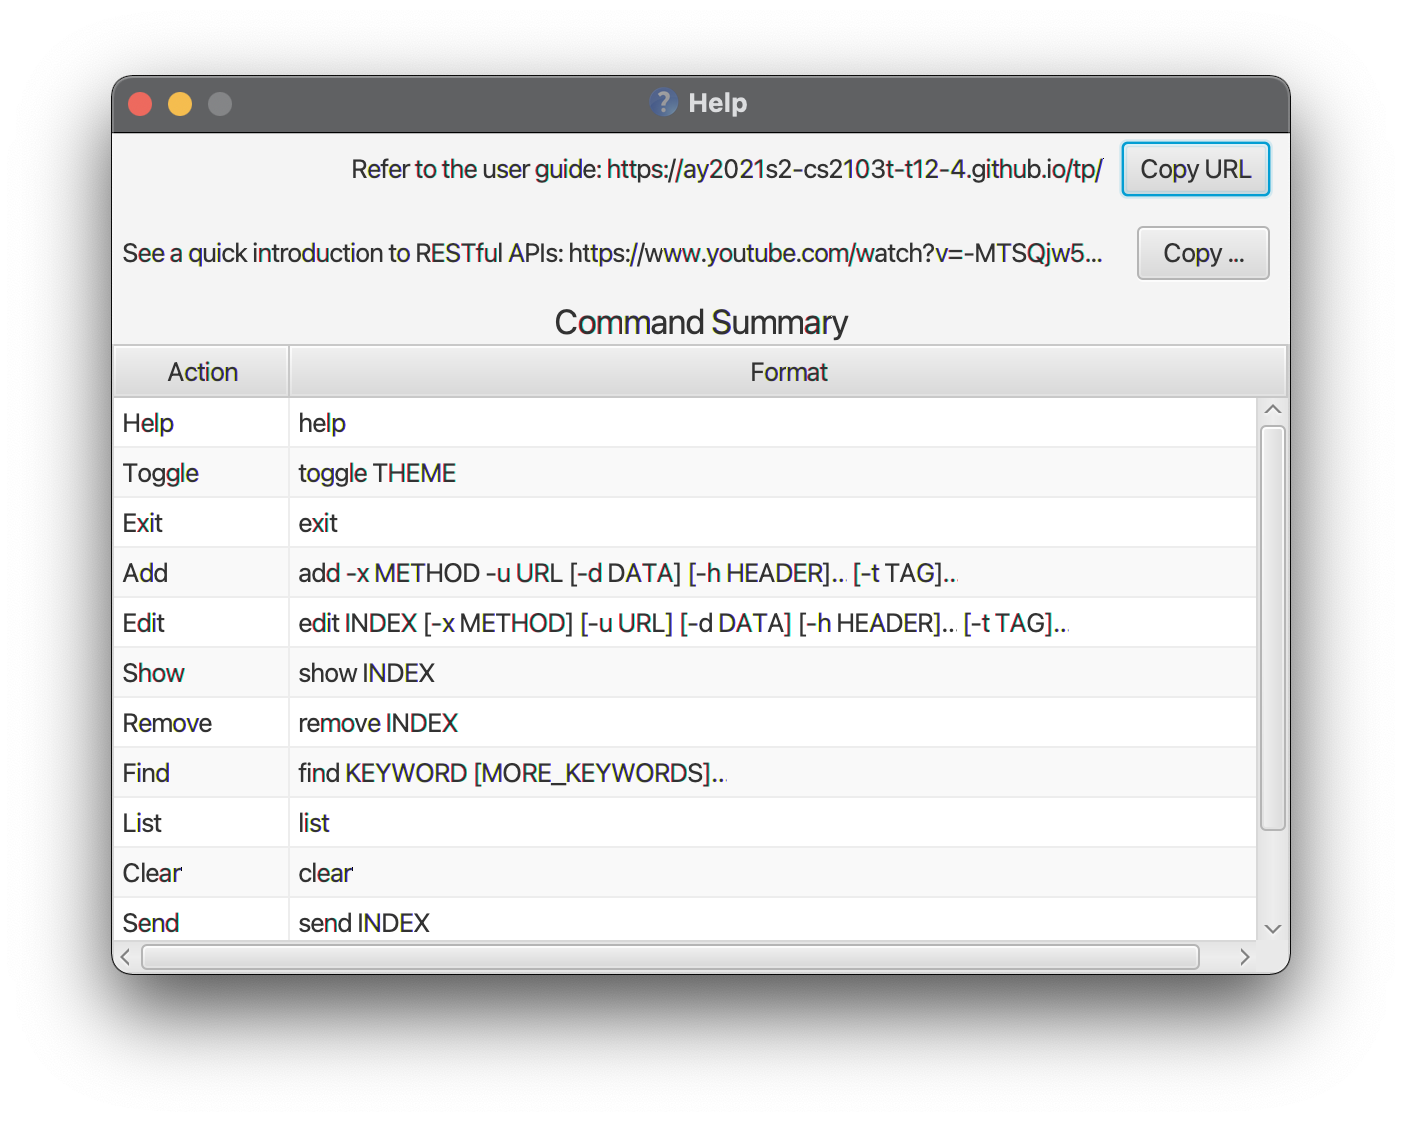
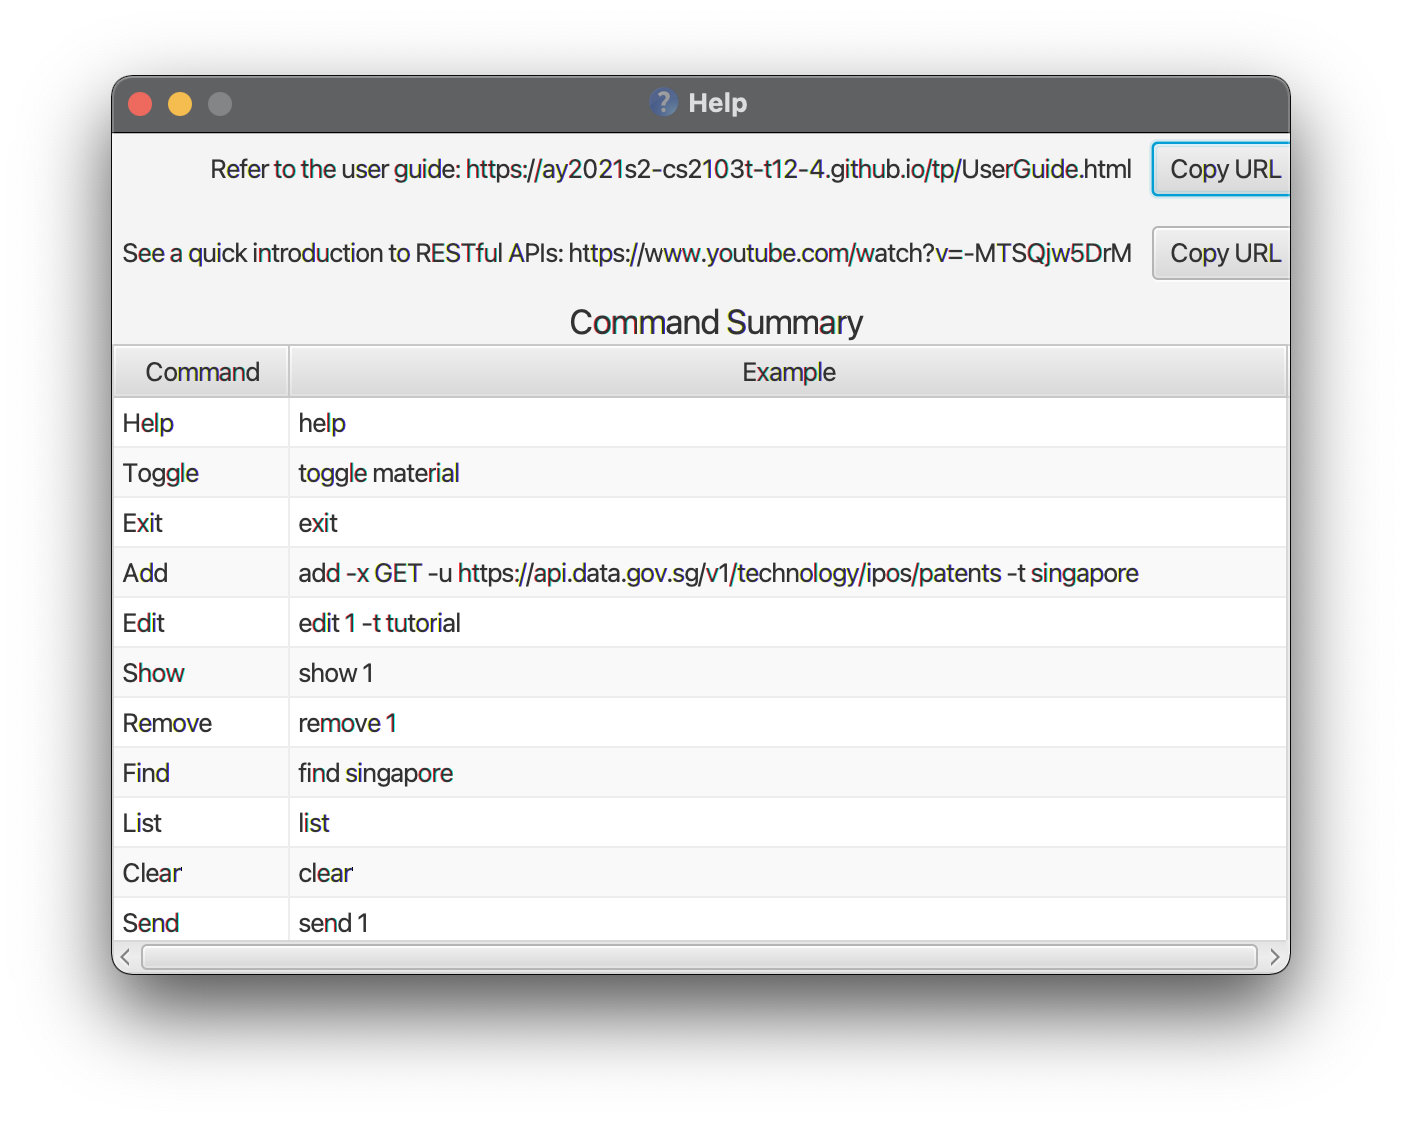
Docs: update commands section overview and help screenshot

diff --git a/docs/UserGuide.md b/docs/UserGuide.md
@@ -114,48 +114,46 @@ In the example above, <span class="main-command">add</span> is the command word 
 | DATA         |   -d   | The data to use for an endpoint **(must be in [JSON](#85-json-format) format)**          |
 | TAG          |   -t   | The tag to label an endpoint                 |
 
+Note that the fields **METHOD**, **URL**, **HEADER**, **DATA** and **TAG** are used to uniquely identify an endpoint.
+
+<div style="page-break-after: always;"></div>
+
 <a name="general-rules"></a>
 Here are some general rules to follow when entering prefixes and parameters:
 
-* A whitespace must be included before every prefix.<br>
-  e.g. `-x METHOD-u URL` is not acceptable, and `-x METHOD -u URL` is in the correct format.<br>
+* A **whitespace** must be included before **every prefix**.<br>
+  e.g. `-x METHOD -u URL` is acceptable but `-x METHOD-u URL` is not.<br>
   
-* Parameters can be in any order.<br>
-  e.g. If the command specifies `-x METHOD -u URL`, `-u URL -x METHOD` is also acceptable.<br>
+* Parameters may be entered in **any order**.<br>
+  e.g. Both `-x METHOD -u URL` and `-u URL -x METHOD` are acceptable.<br>
   
-* If a parameter is expected only once in the command but you specified it multiple times, only the last occurrence of the parameter will be taken.<br>
+* If a parameter is expected only once in the command but you specified it multiple times, only the **last occurrence** of the parameter will be taken.<br>
   e.g. If you specify `-u https://github.com/ -u https://google.com/`, only `-u https://google.com/` will be taken.<br>
 
-* Extraneous parameters for commands that do not take in parameters (such as `help`, `list`, `exit` and `clear`) will be ignored.<br>
+* **Extraneous parameters** for commands that do not take in parameters (such as **help**, **list**, **exit** and **clear**) will be ignored.<br>
   e.g. If the command specifies `help 123`, it will be interpreted as `help`.<br>
   
-* For Add, Edit and Run commands, to add multiple parameters of the same prefix, add the prefix multiple times before each parameter.<br>
-  e.g. To add two TAGs, enter `-t tagOne -t tagTwo`.<br>
-  e.g. To add three HEADERs, enter `-h "header: one" -h "header: two" -h "header: three"`.<br>
+* For **add**, **edit** and **run** commands, to add multiple parameters of the same prefix, add the prefix multiple times before each parameter.<br>
+  e.g. To add two tags, enter `-t tagOne -t tagTwo`.<br>
+  e.g. To add three headers, enter `-h "header: one" -h "header: two" -h "header: three"`.<br>
   
-* Multiple headers/tags must be unique and duplicates will be ignored.
-  e.g. `edit 1 -t tag -t tag` will only create one `tag`.
+* Multiple **headers/tags must be unique** and duplicates will be ignored.<br>
+e.g. `edit 1 -t tagA -t tagA` will only create one `tagA`.
 
+* For the **URL** parameter, as our application is focused on API testing, we have no plans to direct all our efforts in
+  verifying every technically valid or invalid [**URL**](https://en.wikipedia.org/wiki/URL) against the official [URL standard](https://url.spec.whatwg.org/#url-parsing). Hence, **minimal checks** are performed for cases of **invalid URL** for which we will still display error messages.
+  e.g.`abc.com\go` is an invalid URL as `\` cannot exist in a valid URL.
 
-About the URL Parameter:
-* We understand that the technical specifications of what constitutes a valid [URL](https://en.wikipedia.org/wiki/URL) 
-  can be complex. Our application focuses on API testing, and we have no plans to direct all our efforts in verifying 
-  every technically valid or invalid URLs against the official [URL standard](https://url.spec.whatwg.org/#url-parsing). 
-  While we prevent certain user inputs from being interpreted as valid URLs, we will also provide relevant error 
-  messages to keep users informed if an invalid URL is used to establish a connection.
-  * e.g.`abc.com\go` is an invalid URL as `\` cannot exist in a valid URL.
+* If no website [protocol](#glossary-protocol) is specified for the **URL**, we enforce a **HTTP protocol** as a protocol needs 
+  to be specified for an API request to be carried out.<br>
+  e.g. if a user enters `google.com` as a URL, we will prepend the URL with `http://`, making it `http://google.com`.
 
-* If no website [protocol](#glossary-protocol) is specified, we enforce a HTTP protocol as a protocol needs to be 
-  specified for an API request to be carried out. 
-  * e.g. if a user enters `google.com` as a URL, we will prepend the URL with `http://`, making it `http://google.com`.
-
-About the INDEX Parameter:
-* Index provided should be a non-zero unsigned integer within the allowed range of Java's `int` data type:
+* The **index** parameter provided should be a **non-zero unsigned integer** within the allowed range of Java's `int` data type:
   * the maximum value an `int` can have is (2^31)-1.
   * the minimum value an `int` can have is -(2^31).
 
 <div markdown="span" class="alert alert-warning">:bulb: **Tip:**
-Check out the screenshot of each command for an idea of the expected output in the application's **Result Display**!
+Every command explanation comes with a screenshot that shows the expected message in the application's **Result Display** (screenshot may be partial to save space!)
 </div>
 
 <div style="page-break-after: always;"></div>
